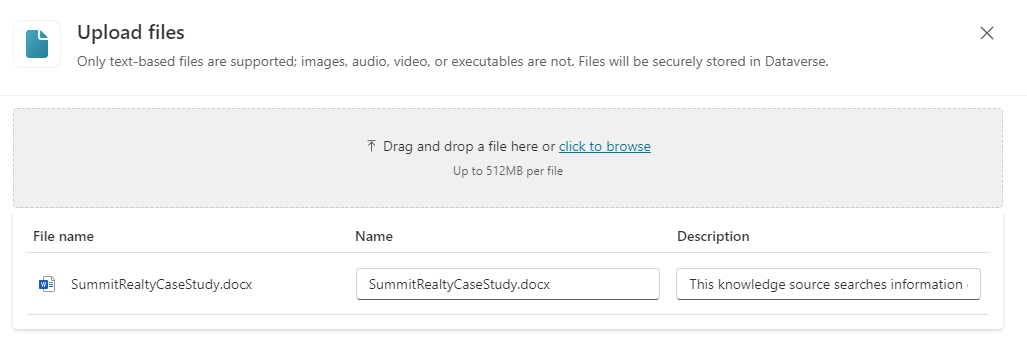
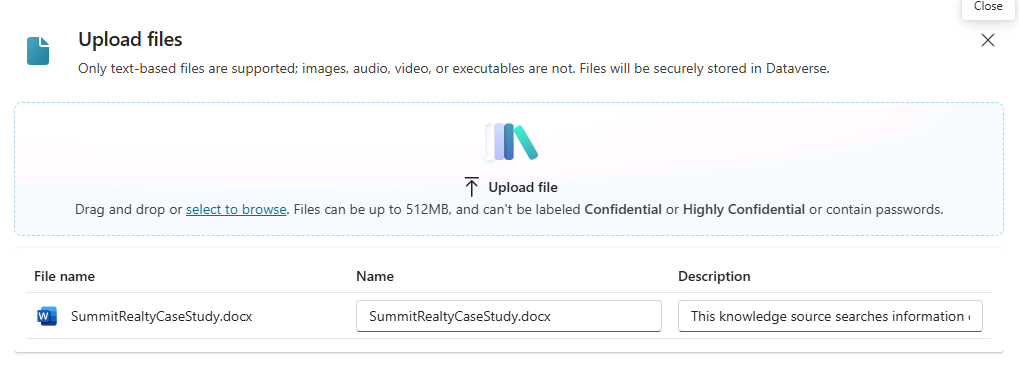
User interface change for adding file knowledge

diff --git a/Instructions/Labs/08-generative-ai.md b/Instructions/Labs/08-generative-ai.md
@@ -43,9 +43,9 @@ This exercise will take approximately **30** minutes to complete.
 
 1. Select the **Generative AI** tab.
 
-1. Select **Generative** under **How should your agent interact with people?**.
+1. Select **Generative** under **How should your agent interact with people?**
 
-1. Select **Medium - More Balanced** for **How strict should the content moderation be?**.
+1. Select **Medium - More Balanced** for **How strict should the content moderation be?**
 
 1. Select **Save**.
 
@@ -115,7 +115,7 @@ This exercise will take approximately **30** minutes to complete.
 
 1. Select **+ Add knowledge**.
 
-1. Under **Upload files**, browse and select the case study that you downloaded.
+1. Under **Upload file**, browse and select the case study that you downloaded.
 
     ![Screenshot of adding file knowledge.](../media/add-file-knowledge.png)
 
